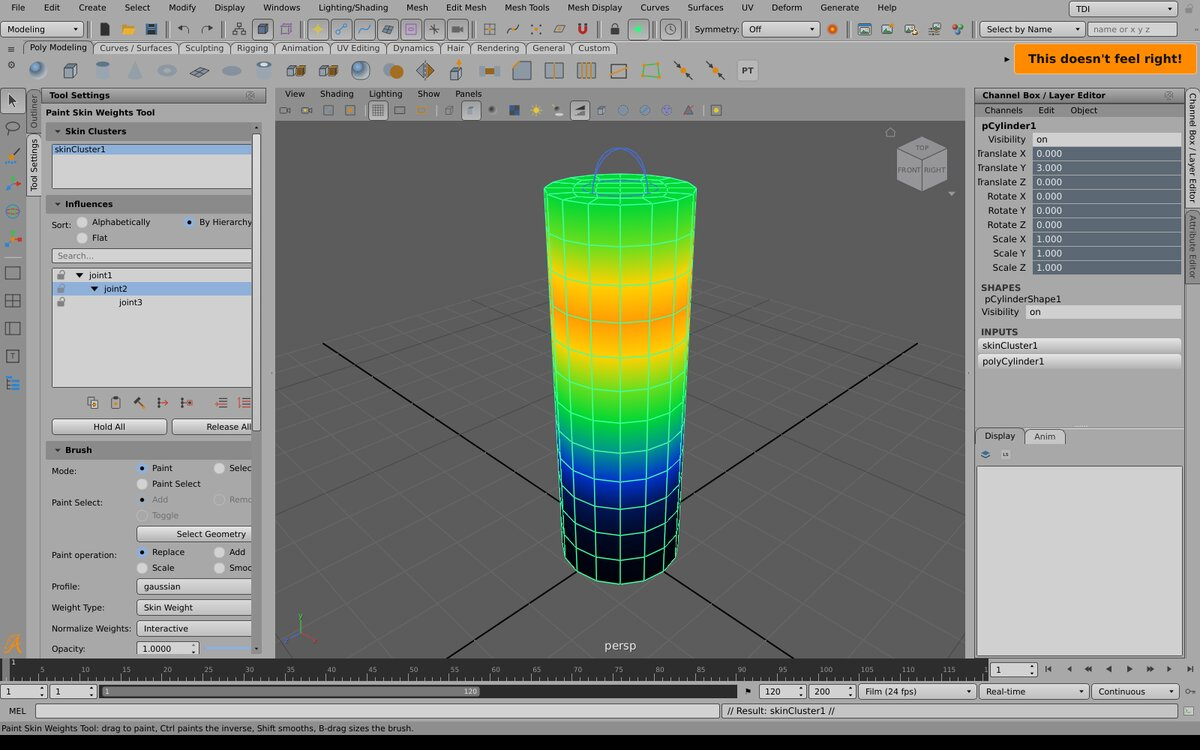
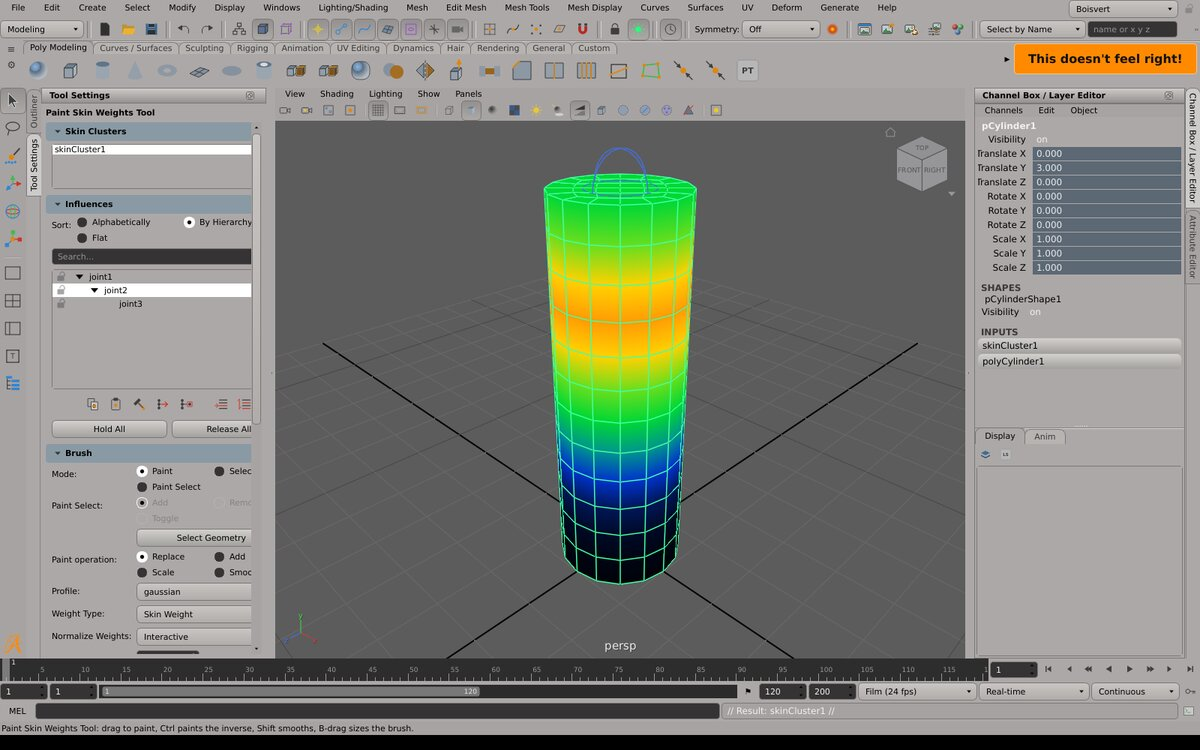
Theme matched to Softimage XSI: warm grey panels, soft rounded buttons lit when on, blue-grey section bars, dark rounded fields, white selection, Tahoma

diff --git a/app/src/themes.cpp b/app/src/themes.cpp
@@ -220,26 +220,26 @@ QList<Theme> builtins() {
         t.padding = 4;
         l << t;
     }
-    // TDI: after Softimage XSI. Mid grey panels with darker header bars, light grey buttons with rounded corners, a
-    // soft top-to-bottom shade and a dark outline, pale grey fields with black type, rounded property page tabs, bold
-    // black section labels on a darker bar, a pale blue for what is picked, Tahoma at 8 points.
+    // Boisvert: Softimage XSI, matched to its screens: warm grey panels and lists, soft raised buttons a shade lighter
+    // with rounded corners (lit white when on), blue-grey section and panel title bars with black bold type, dark
+    // rounded entry fields with light type, a white bar with black type for what is picked, Tahoma.
     {
-        Theme t = hand("martino", "TDI",
-                       {{"window", "#a8a8a8"}, {"chrome", "#8e8e8e"}, {"base", "#d0d0d0"}, {"alt", "#c4c4c4"}, {"menu", "#c0c0c0"}, {"button", "#c6c6c6"}, {"hover", "#d6d6d6"},
-                        {"hi", "#8fb0d9"}, {"hitext", "#000000"}, {"text", "#000000"}, {"bright", "#000000"}, {"dim", "#333333"}, {"disabled", "#707070"}, {"border", "#4c4c4c"},
-                        {"handle", "#bcbcbc"}, {"section", "#8a8a8a"}, {"sectiontext", "#000000"}, {"light", "#e4e4e4"}, {"shadow", "#5c5c5c"},
-                        {"field", "#d2d2d2"}, {"fieldtext", "#000000"}});
+        Theme t = hand("martino", "Boisvert",
+                       {{"window", "#aca8a7"}, {"chrome", "#a7a3a2"}, {"base", "#aca8a7"}, {"alt", "#a6a2a1"}, {"menu", "#cccbc9"}, {"button", "#b6b3b1"}, {"hover", "#c6c3c1"},
+                        {"hi", "#ffffff"}, {"hitext", "#000000"}, {"text", "#000000"}, {"bright", "#000000"}, {"dim", "#3a3938"}, {"disabled", "#858281"}, {"border", "#7a7776"},
+                        {"handle", "#b6b3b1"}, {"section", "#899aa4"}, {"sectiontext", "#000000"}, {"light", "#d6d3d1"}, {"shadow", "#838182"},
+                        {"field", "#353334"}, {"fieldtext", "#f2f0f1"}});
         t.font = QStringList{"Tahoma", "Verdana", "DejaVu Sans", "Segoe UI", "Arial"};
         t.point_size = 8;
         t.menu_bold = false;
         t.fill = "gradient";
         t.bevel = "none";
-        t.radius = 4;
+        t.radius = 6;
         t.border = 1;
         t.tabs = "rounded";
         t.arrows = "triangle";
         t.scrollbar = "standard";
-        t.padding = 2;
+        t.padding = 3;
         l << t;
     }
     // Keating: the Dracula scheme as its author publishes it (MIT), pink highlights, purple section bars, rounded type and very round corners.

diff --git a/README.md b/README.md
@@ -477,7 +477,7 @@ The reference has one look, and Aztek Classic is it, the default. The **Themes**
 changes the interface's colours, fonts and the shapes of its buttons, fields, tabs, arrows and scroll bars, live, and
 Aztek keeps the choice. They are listed from darkest to lightest, and the icons turn dark on the light ones. Keating,
 Novacek, Springer and Buxton are the Dracula, Nord and Solarized colour schemes as their authors publish them; Shaq
-follows Unreal Engine 5's editor, DonnieAlex Blender's, TDI Softimage XSI and Martino macOS. The timeline and the drawn editors (Graph,
+follows Unreal Engine 5's editor, DonnieAlex Blender's, Boisvert Softimage XSI and Martino macOS. The timeline and the drawn editors (Graph,
 Node and UV Editor, marking menus) keep their own colours.
 
 **Random!**, at the bottom of the box, makes a theme with every option at random, fonts included, and applies it: pick
@@ -489,8 +489,8 @@ or bold menus and tabs, the fill (classic, flat or gradient), bevels (none, sing
 radius, border width, padding, the tab, arrow and scroll bar styles, the buttons (soft, glossy, outline, inset, chunky,
 underlined or pills), the edges round panels (line, groove, raised, thick, rounded or a drop shadow) and the panel title
 bars (gradient, underlined, a highlight stripe, inverse or a folder tab). Every built-in theme has its own mix of these;
-TDI follows Softimage XSI: grey panels with darker headers, light rounded buttons with a soft shade and a dark
-outline, rounded property tabs and Tahoma. Built-in themes stay as they are and saving makes a
+Boisvert follows Softimage XSI: warm grey panels, soft rounded buttons, blue-grey section bars, dark rounded entry
+fields and a white bar for what is picked. Built-in themes stay as they are and saving makes a
 copy of your own, kept as JSON in `~/.aztek/themes`, which Import and Export pass around.
 
 ![Theme Editor](docs/theme-editor.png)
@@ -514,8 +514,8 @@ copy of your own, kept as JSON in `~/.aztek/themes`, which Import and Export pas
 
 | | | |
 |---|---|---|
-| ![Sebdvvv](docs/theme-studio96.jpg) | ![TDI](docs/theme-martino.jpg) | ![Krieger](docs/theme-desktop98.jpg) |
-| **Sebdvvv**: the mid-90s workstation animation packages: pink fields, bold italic menus, bevels | **TDI**: after Softimage XSI: grey panels, light rounded buttons with a soft shade, pale fields, Tahoma | **Krieger**: silver and navy, two-tone bevels, 1998 |
+| ![Sebdvvv](docs/theme-studio96.jpg) | ![Boisvert](docs/theme-martino.jpg) | ![Krieger](docs/theme-desktop98.jpg) |
+| **Sebdvvv**: the mid-90s workstation animation packages: pink fields, bold italic menus, bevels | **Boisvert**: after Softimage XSI: warm grey, soft rounded buttons, blue-grey section bars, dark rounded fields, white selection | **Krieger**: silver and navy, two-tone bevels, 1998 |
 | ![Wavefront](docs/theme-workstation.jpg) | ![Hourihan](docs/theme-poweranimator.jpg) | ![Hourcade](docs/theme-sky.jpg) |
 | **Wavefront**: the light grey workstation desktop the reference first ran on | **Hourihan**: light grey with mid grey fields and darker section bars, round-topped tabs | **Hourcade**: pale sky blue and navy, humanist type, navy section bars, round pills |
 | ![Buxton](docs/theme-solarized-light.jpg) | ![Hall](docs/theme-paper.jpg) | ![AshT](docs/theme-ash.jpg) |
